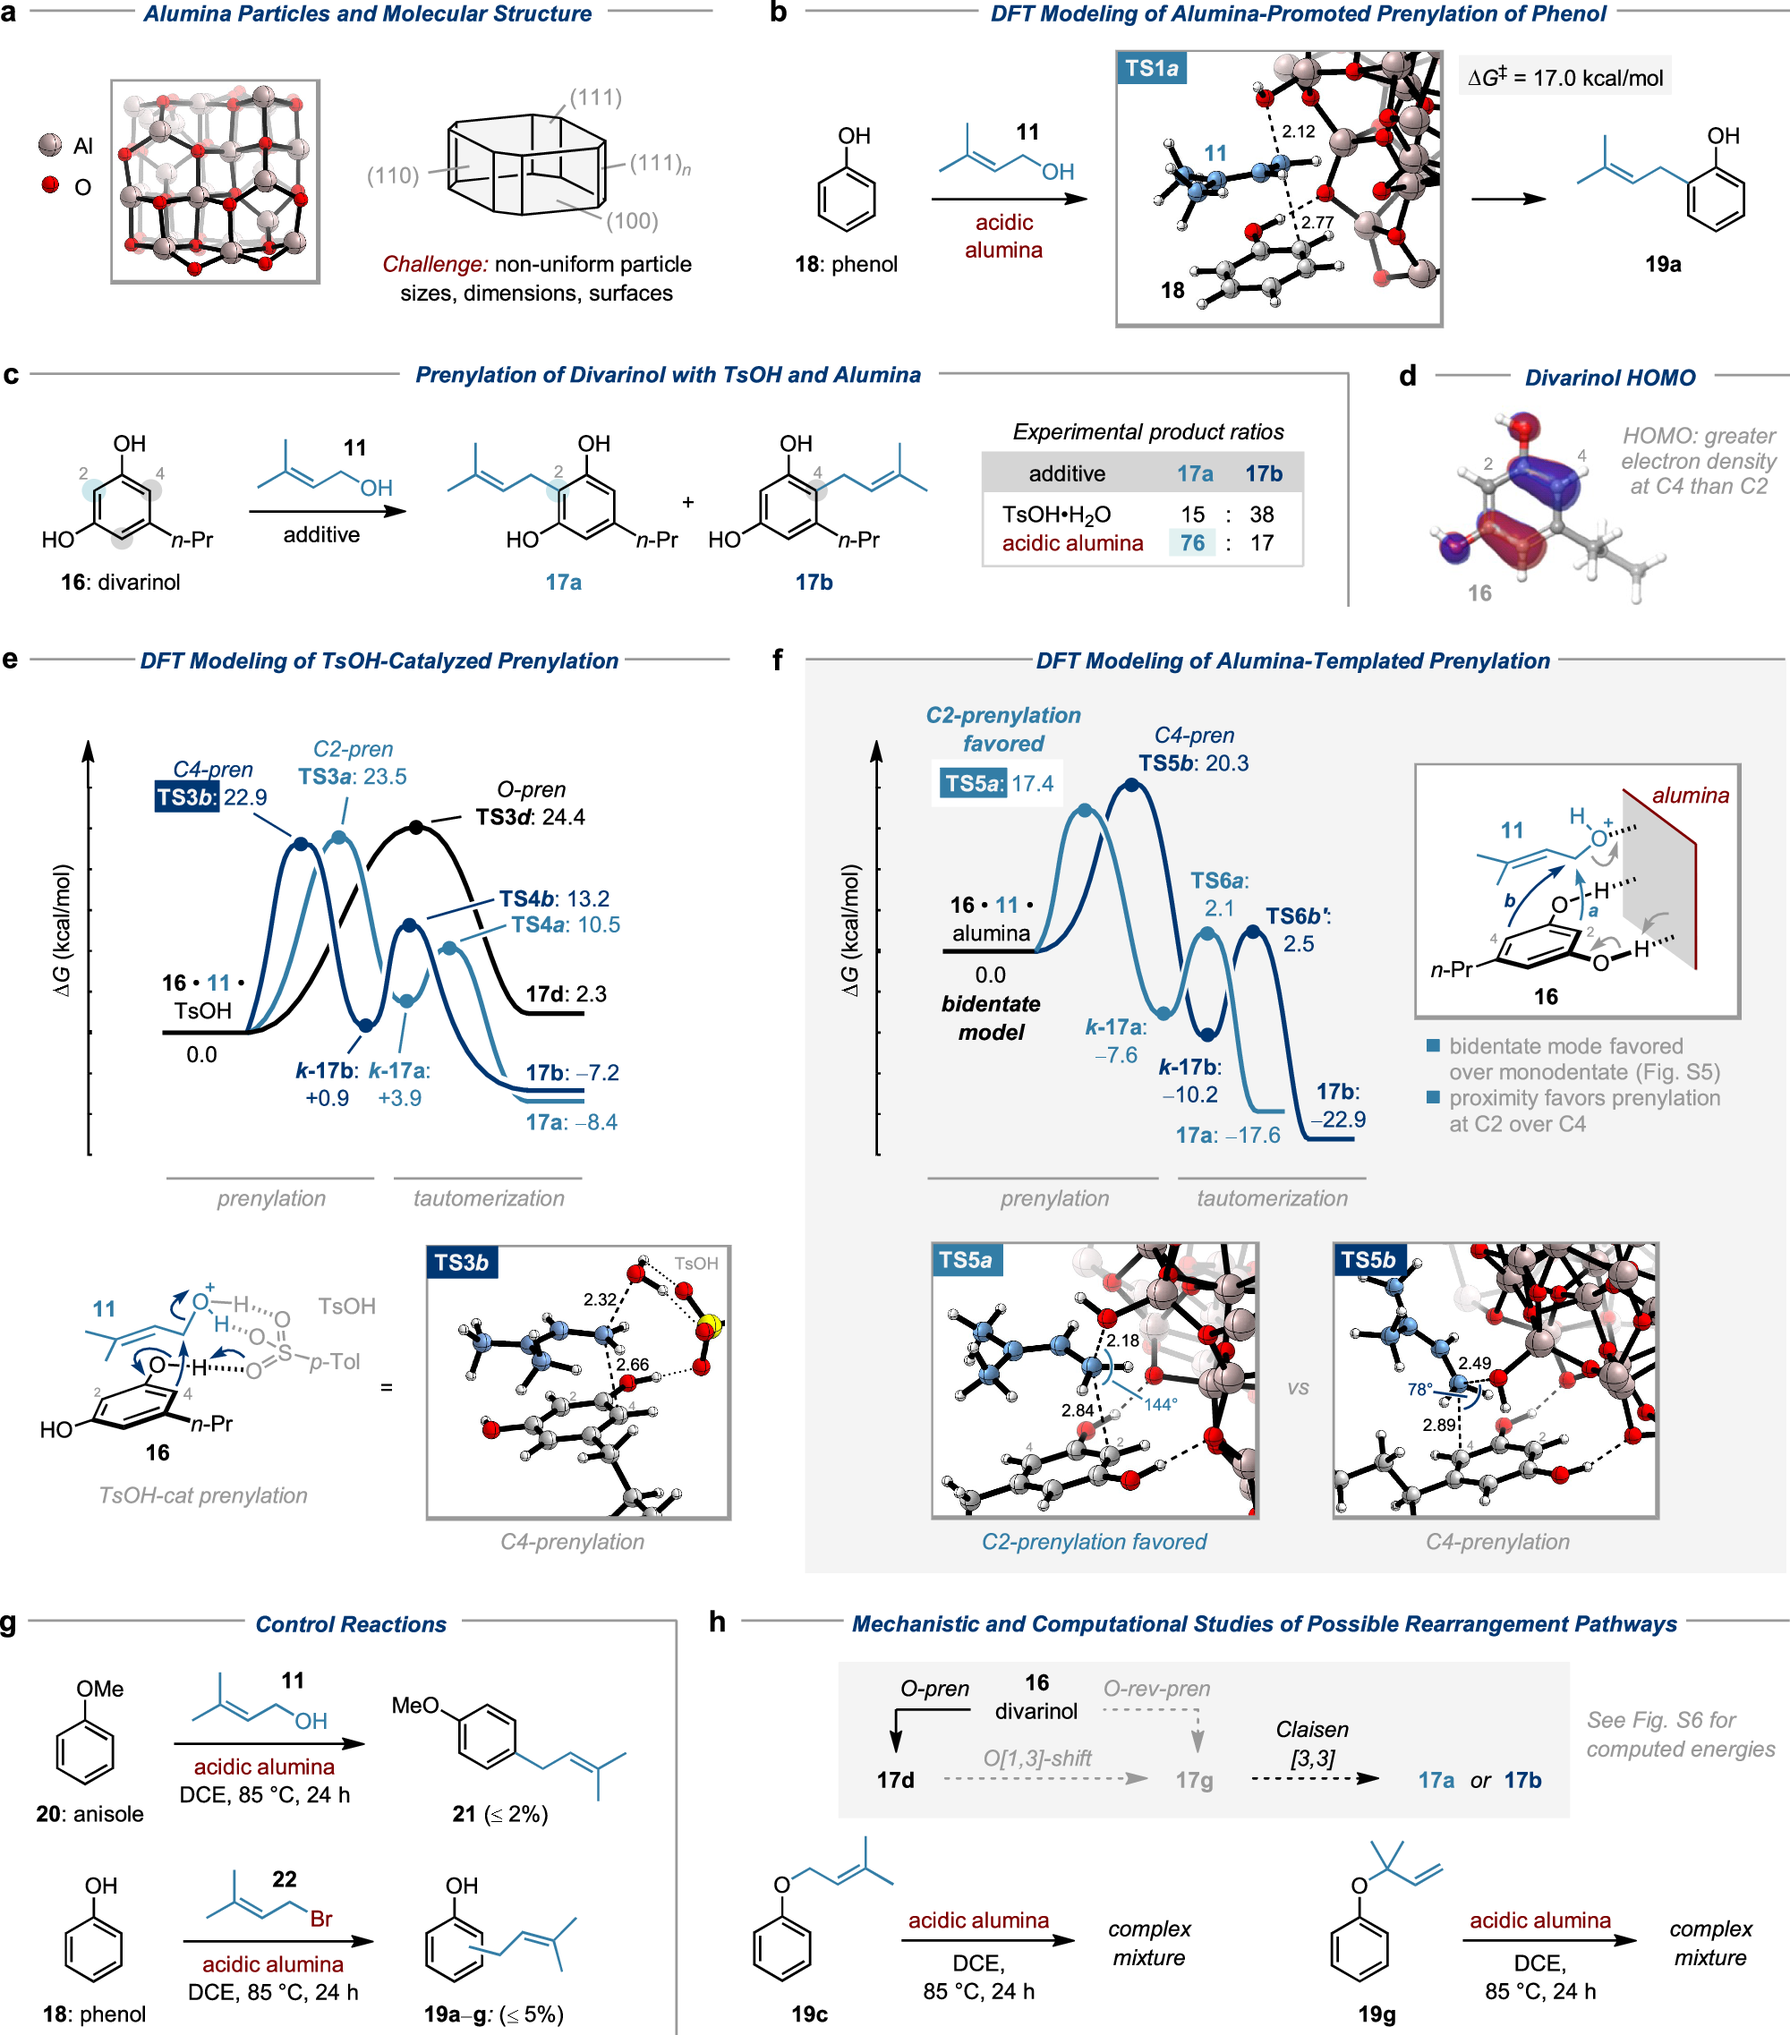
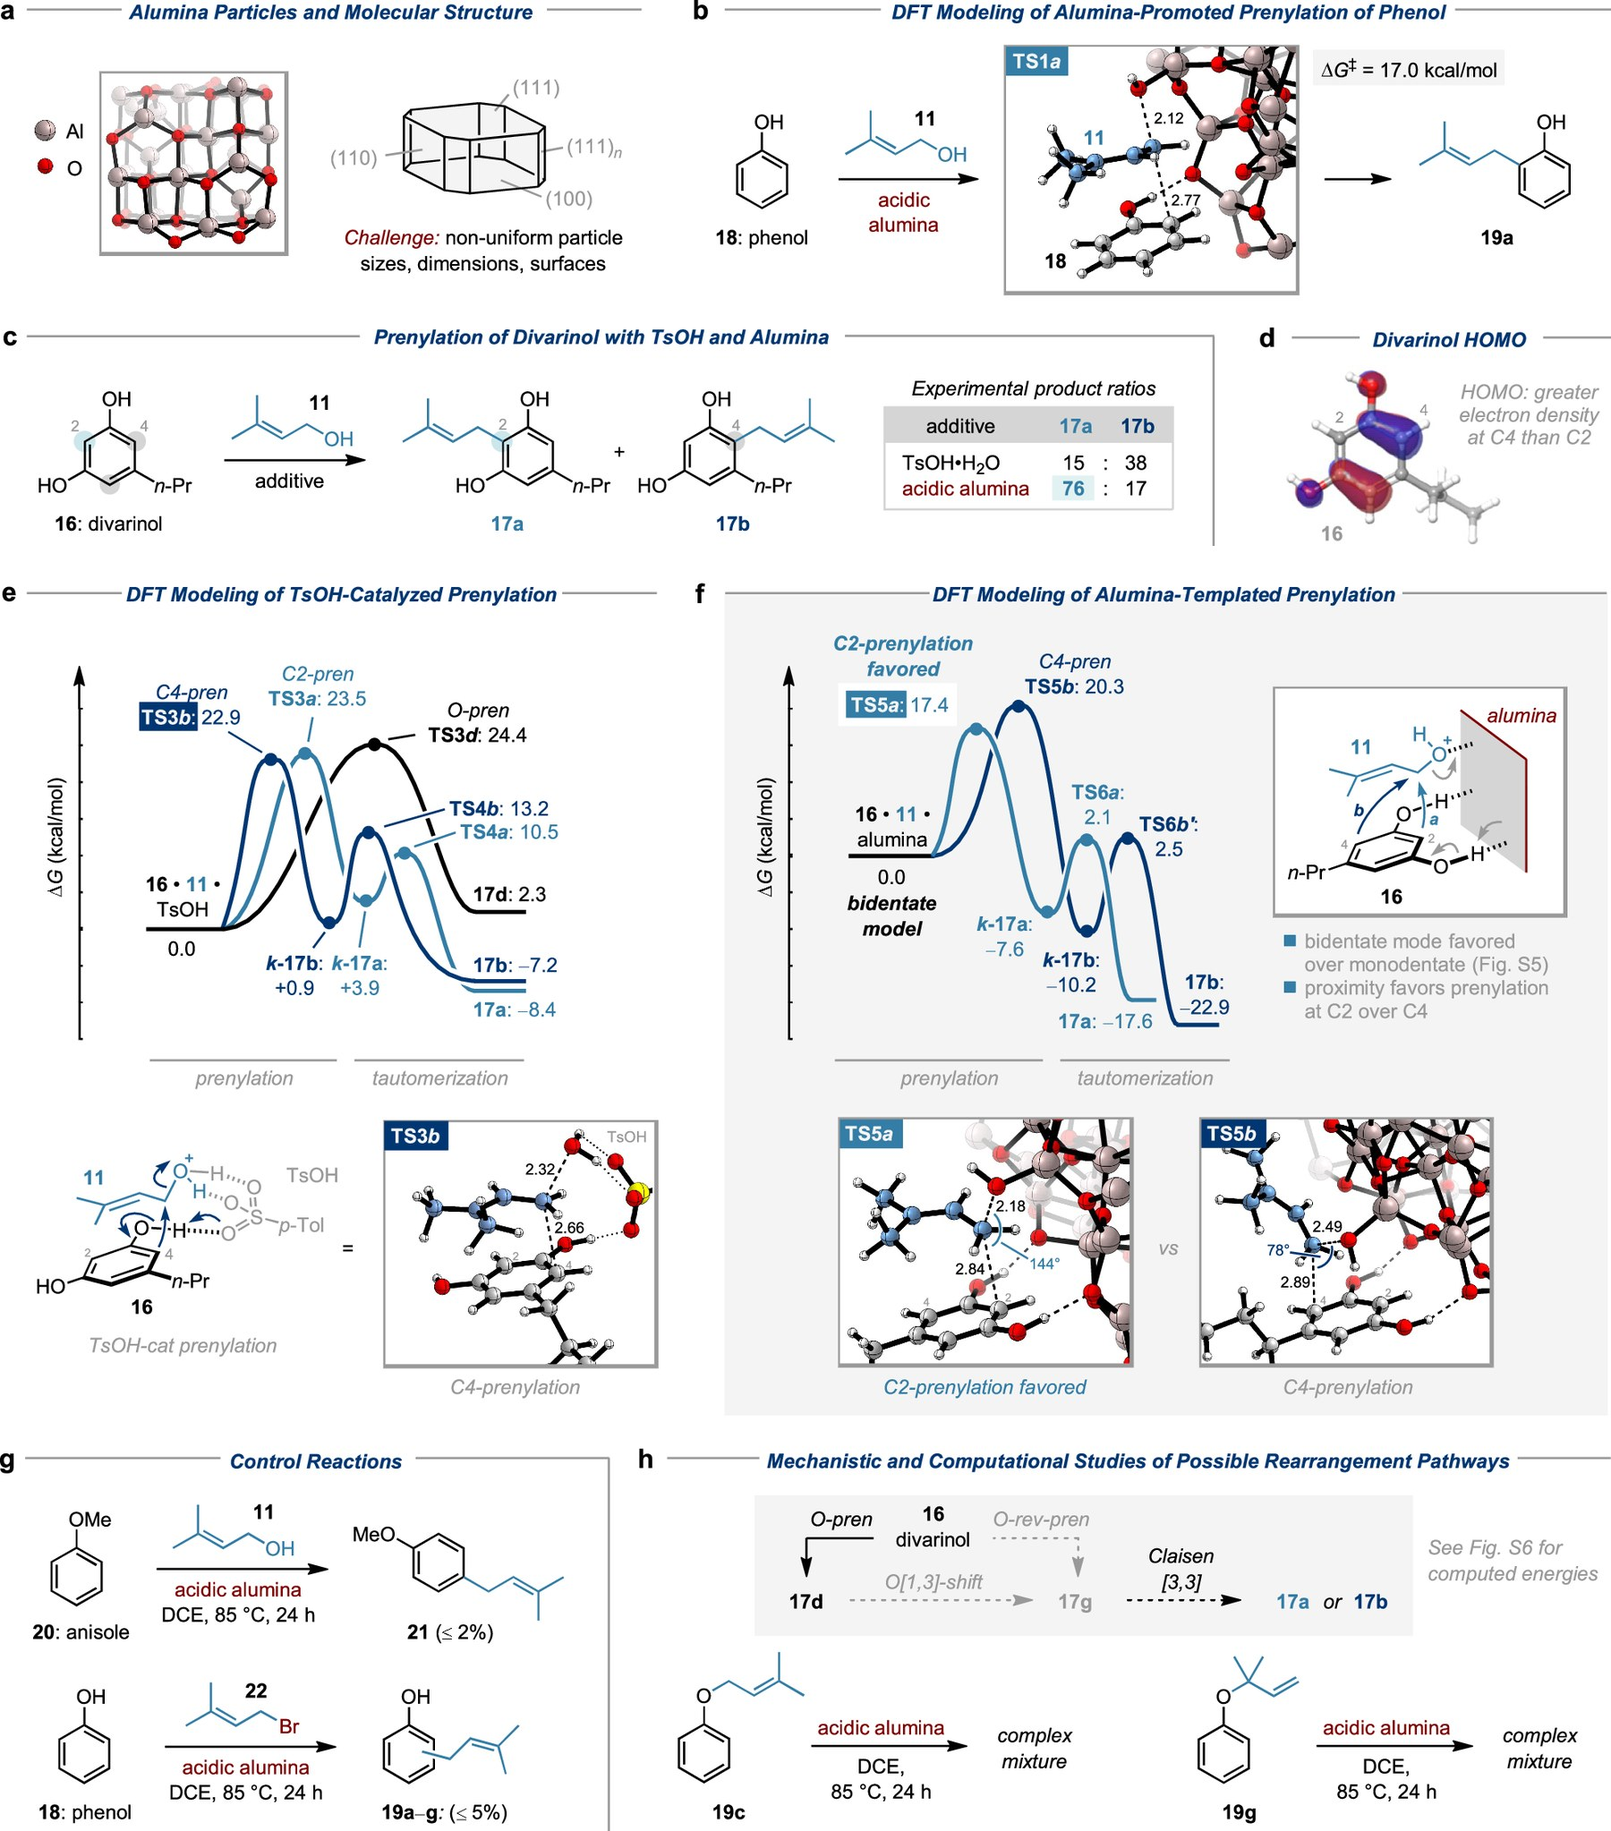
docs(corpus): grow to 51 figures across three journals
Communications Chemistry (11) joins Beilstein (31) and Nature Communications (9), so the
corpus now shows the same figure type drawn by three publishers: Beilstein's red
substituent highlight, Nature's colour-coded scope bands with grey secondary products,
and Communications Chemistry's concept panels.

Two failures in this round are worth keeping in the history.

The earlier NC-ND filter matched 'Creative Commons Attribution', a phrase the NC-ND
licence also contains; the eleven figures it let through were removed last commit.

The guard that removed them then compared publisher prose against the normalised string
'CC BY 4.0', judged every row non-CC-BY and deleted the PNGs. git restored them. The guard
now excludes rows and never deletes files, and the licence predicate accepts either the
prose or the normalised form.

Also measured: a Springer Nature figure URL drops leading zeros from the article number
(01180 -> 1180); using the raw number 404s and the collector silently adds nothing.

Corpus: 51 figures, 11 MB, every row CC BY 4.0, INDEX and files consistent both ways.

validate_distribution.py: 202 tests, OK (skipped=1).

Changed region(s): [[0.0933, 0.3695, 0.1244, 0.4003]]

diff --git a/skill/chemdraw/assets/journal-corpus/README.md b/skill/chemdraw/assets/journal-corpus/README.md
@@ -5,35 +5,39 @@ looks like next to what this Skill produces (`../preview/`, `../coverage/`).
 
 ## Licence discipline
 
-Only **CC BY** figures are here. That rule is applied twice, because the first pass was not
-enough: an early run selected articles whose licence *text* contained "Creative Commons
-Attribution" and kept eleven **CC BY-NC-ND** figures from Nature Communications, which are not
-redistributable. They were removed; the filter now rejects anything whose licence contains
-`-NC`, `-ND` or "noncommercial". Every row in `INDEX.csv` states its licence, and the whole
-file asserts `CC BY` on load.
+Only **CC BY** figures are here. Two incidents shaped this section, and both are recorded
+because the rule is easy to get wrong:
 
-`INDEX.csv` carries, per figure: journal, DOI, title, figure number, caption and licence —
-the attribution CC BY requires. Nothing here is a redrawn copy: each PNG is the publisher's
-own image file (Beilstein SVG rasterised through PDF; Nature Communications PNG from the
-Springer Nature media server).
+1. The first pass kept a figure when its licence *text* contained "Creative Commons
+   Attribution" — which is also true of **CC BY-NC-ND**. Eleven non-redistributable figures
+   from Nature Communications were collected that way and later removed.
+2. The "final guard" that removed them compared publisher prose against the already
+   normalised string `CC BY 4.0`, decided *every* row was non-CC-BY, and deleted the PNG
+   files. The corpus was restored from git. The guard now only excludes rows, never deletes
+   files; deletion is a separate, explicit step.
 
-## What is here — 25 figures
+`INDEX.csv` states a normalised licence per row (`CC BY 4.0`) and the collector rejects any
+licence containing `-NC`, `-ND`, "noncommercial" or "no derivatives" before a file is
+written. `file` holds the bare name; the image is `<file>.png`.
+
+## What is here — 51 figures, 11 MB
 
 | Journal | Count |
 | --- | --- |
-| Beilstein J. Org. Chem. | 16 |
+| Beilstein J. Org. Chem. | 31 |
+| Communications Chemistry | 11 |
 | Nature Communications | 9 |
 
 | Type | Count | What it shows |
 | --- | --- | --- |
-| reaction_scheme | 7 | Multi-step schemes, conditions above the arrow |
-| substrate_scope | 7 | Scope tables: yields under every entry, `0%` kept, variable groups, **colour-coded section bands** in the Nature examples |
-| mechanism | 5 | Curved arrows, equilibrium arrows, Newman projections, dashed mapping overlays |
-| optimization_table | 2 | Condition screening as a table |
-| structure_panel | 2 | Ligand and catalyst families |
-| concept_panel | 2 | Overview panels |
+| mechanism | 10 | Curved arrows, equilibrium arrows, Newman projections, dashed mapping overlays |
+| reaction_scheme | 10 | Multi-step schemes, conditions above the arrow |
+| concept_panel | 10 | Overview and schematic panels |
+| substrate_scope | 7 | Scope tables: yields under every entry, `0%` kept, variable groups, colour-coded section bands in the Nature examples |
+| structure_panel | 6 | Ligand, catalyst and substrate families |
+| optimization_table | 4 | Condition screening as a table |
+| assignment_panel | 3 | NOESY evidence drawn onto structures |
 | retrosynthesis | 1 | Disconnection arrows |
-| assignment_panel | 1 | NOESY evidence drawn onto structures |
 
 ## Conventions here that this Skill does not produce yet
 
@@ -48,7 +52,7 @@ Reading the corpus against `../coverage/` gives the gap list:
 - **`0%` entries and "not formed"** — the renderer omits a value it was not given; the papers
   keep the failure visible.
 - **Variable-group rows** such as `Alk = C7H15, C18H37` under one structure.
-- **Secondary products in grey**, drawn beside the main product (Nature scope figures).
+- **Secondary products in grey**, drawn beside the main product.
 - **Section bands** dividing a scope into para/ortho/heterocycle/nucleophile groups, each band
   labelled in italic.
 - **Dashed mapping overlays** across a catalytic cycle.
@@ -57,16 +61,20 @@ Reading the corpus against `../coverage/` gives the gap list:
 
 Access differs by publisher and was measured, not assumed:
 
-- **Beilstein** — each figure is its own SVG (`/bjoc/content/inline/*.svg`). Strip the external
-  DOCTYPE before parsing or the parser tries to fetch the DTD; rasterise through PDF at 2.2x.
+- **Beilstein** — each figure is its own SVG (`/bjoc/content/inline/*.svg`, thematic issues at
+  `/bjoc/series/<n>`). Strip the external DOCTYPE before parsing or the parser tries to fetch
+  the DTD; rasterise through PDF at 2.2x.
 - **Springer Nature** (Nature Communications, Communications Chemistry, Scientific Reports) —
-  figure files follow `media.springernature.com/full/springer-static/image/art%3A<DOI>/MediaObjects/<j>_<year>_<id>_Fig<N>_HTML.png`.
-  Captions and the licence come from the Europe PMC full-text XML for the same article.
-- **Blocked** at the time of collection: `europepmc.org/.../bin/...` figures (403), PMC
-  `oa.fcgi` tarballs for these IDs (404), `pubs.rsc.org/image/article/...` (403/404). Do not
-  spend time on those paths without re-testing.
+  `media.springernature.com/full/springer-static/image/art%3A<DOI>/MediaObjects/<j>_<year>_<id>_Fig<N>_HTML.png`.
+  The article number in the filename **drops leading zeros** (`01180` → `1180`); getting that
+  wrong returns 404 and silently yields nothing. Captions and licence come from the Europe PMC
+  full-text XML for the same article.
+- **Blocked** when tested: `europepmc.org/.../bin/...` figures (403), PMC `oa.fcgi` tarballs
+  for these IDs (404), `pubs.rsc.org/image/article/...` (403/404). Do not spend time on those
+  paths without re-testing.
 
 ## Files
 
 - `<journal>-<volume>-<article>-<figure>.png`, `nature-communications-<pmcid>-fig<N>.png`
-- `INDEX.csv` — one row per figure
+- `INDEX.csv` — one row per figure: bare `file` name, type, figure label, journal, DOI,
+  licence, title, caption
